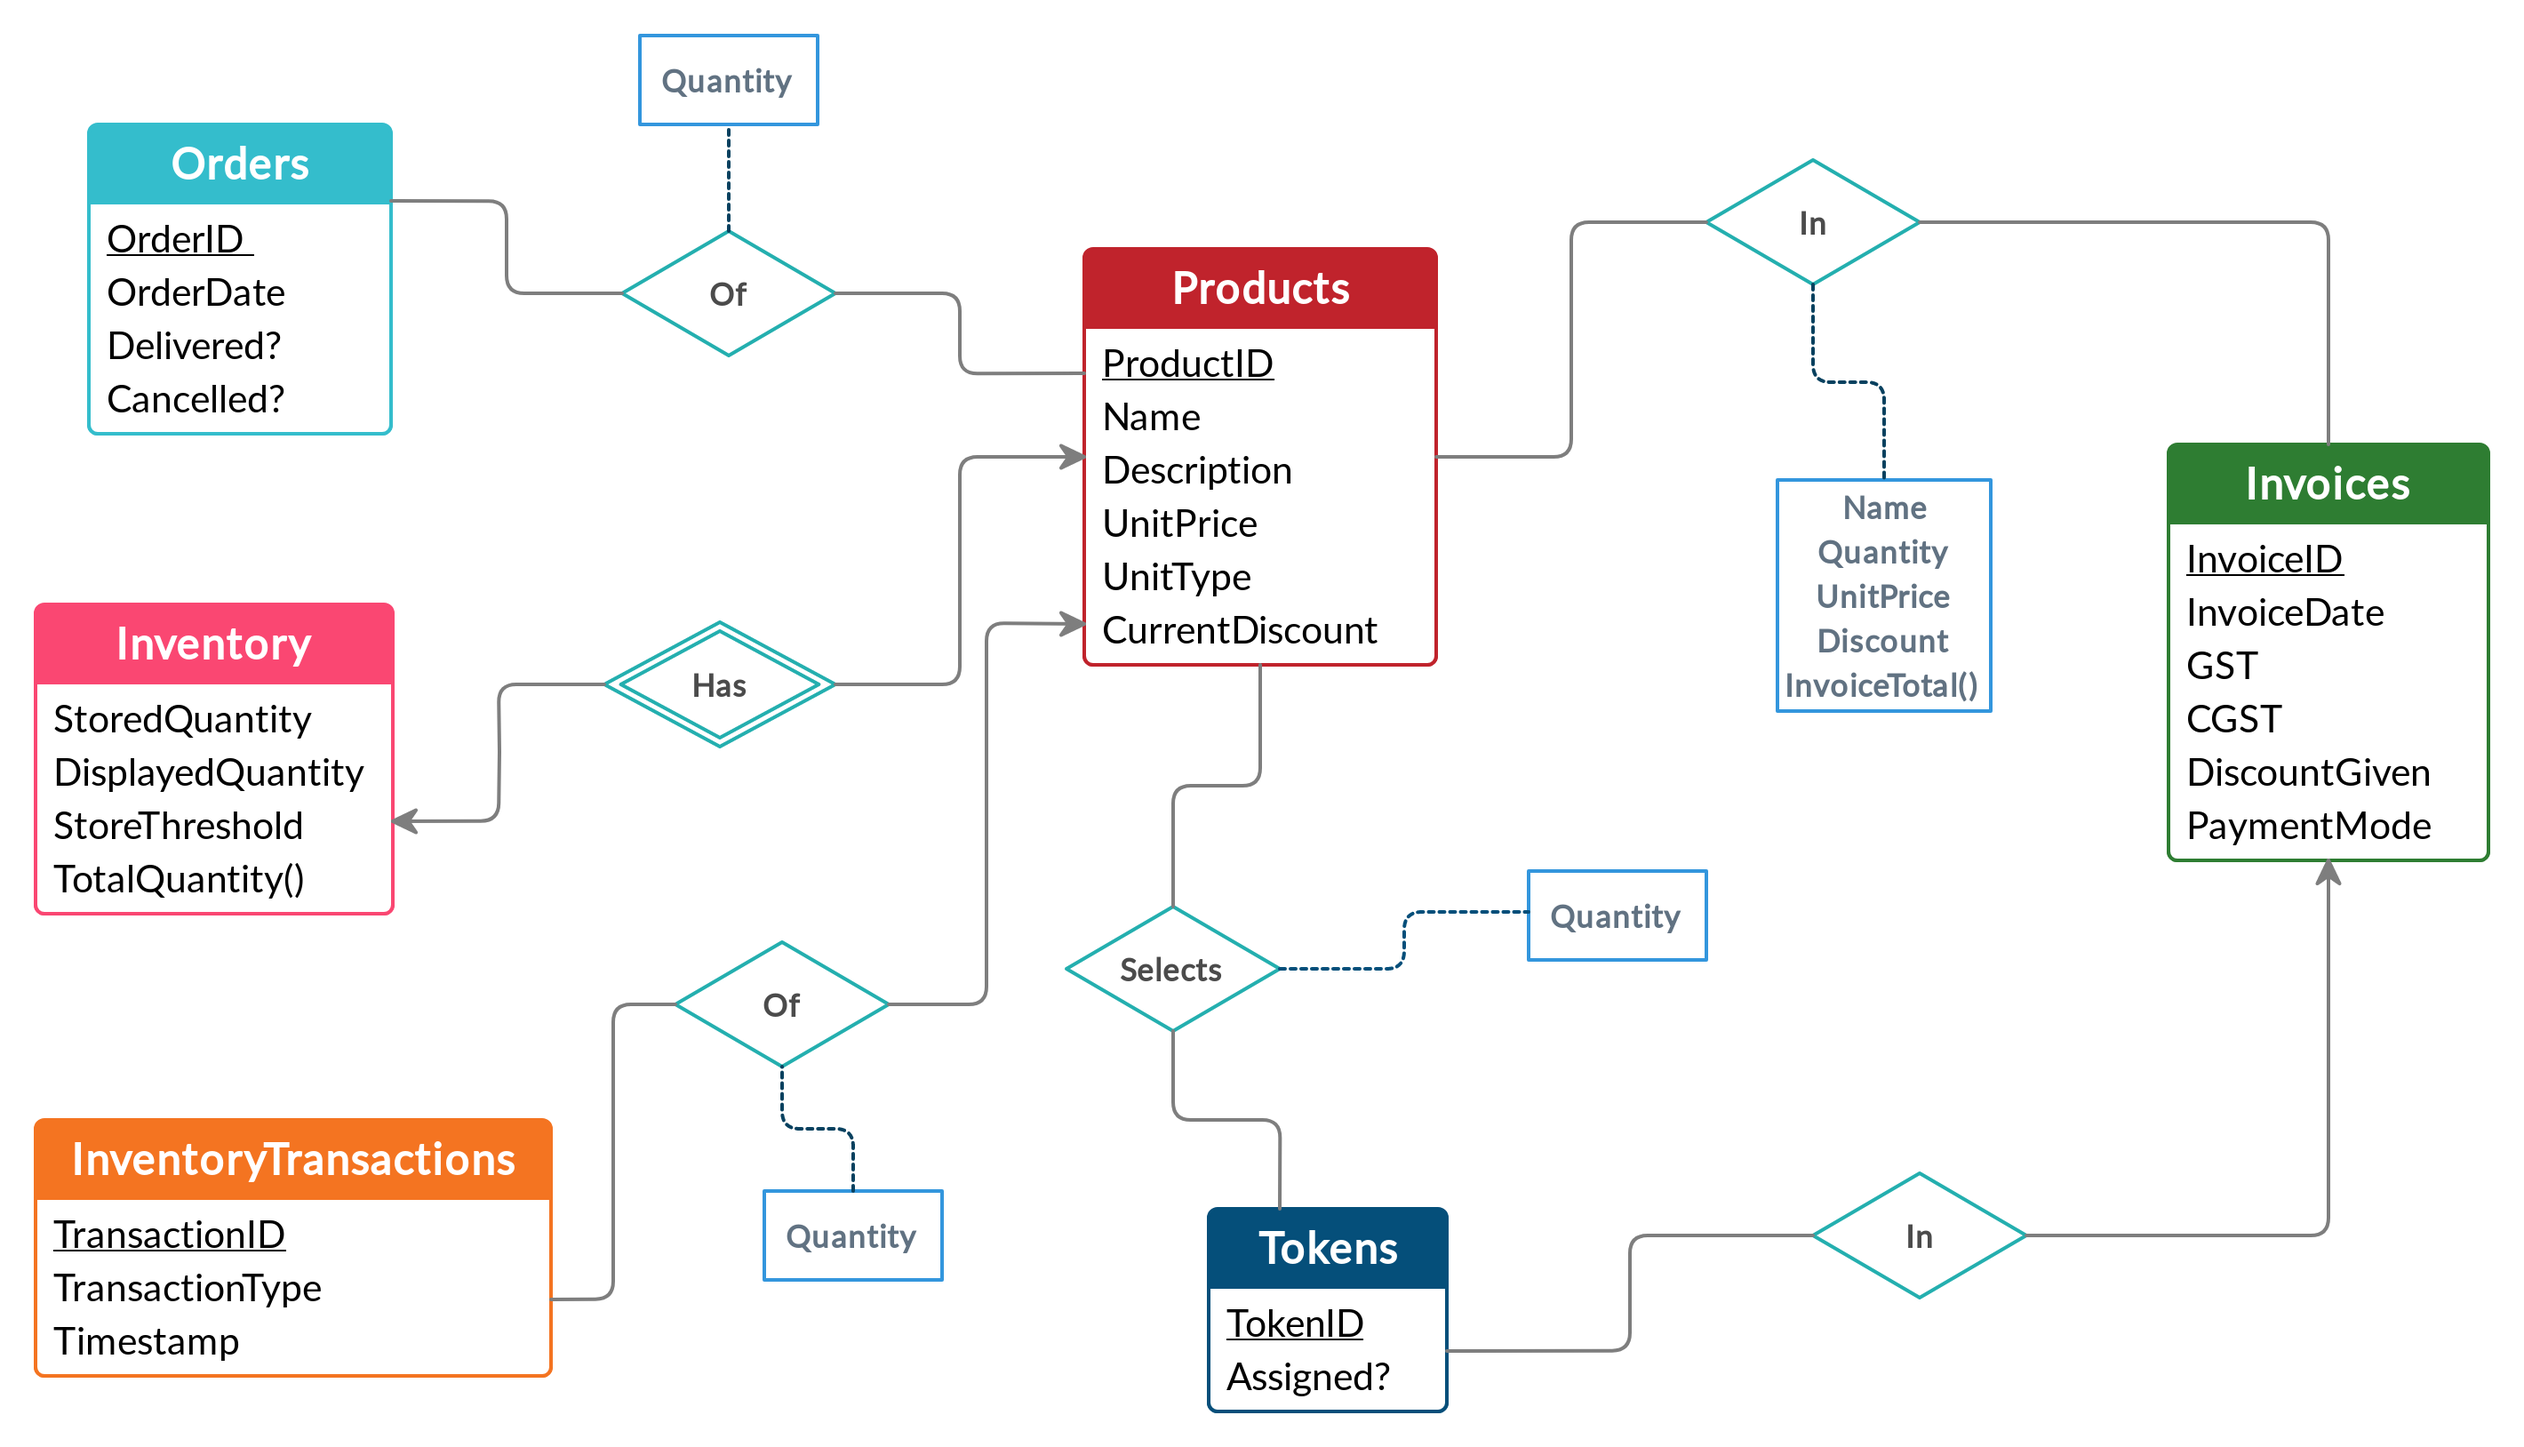
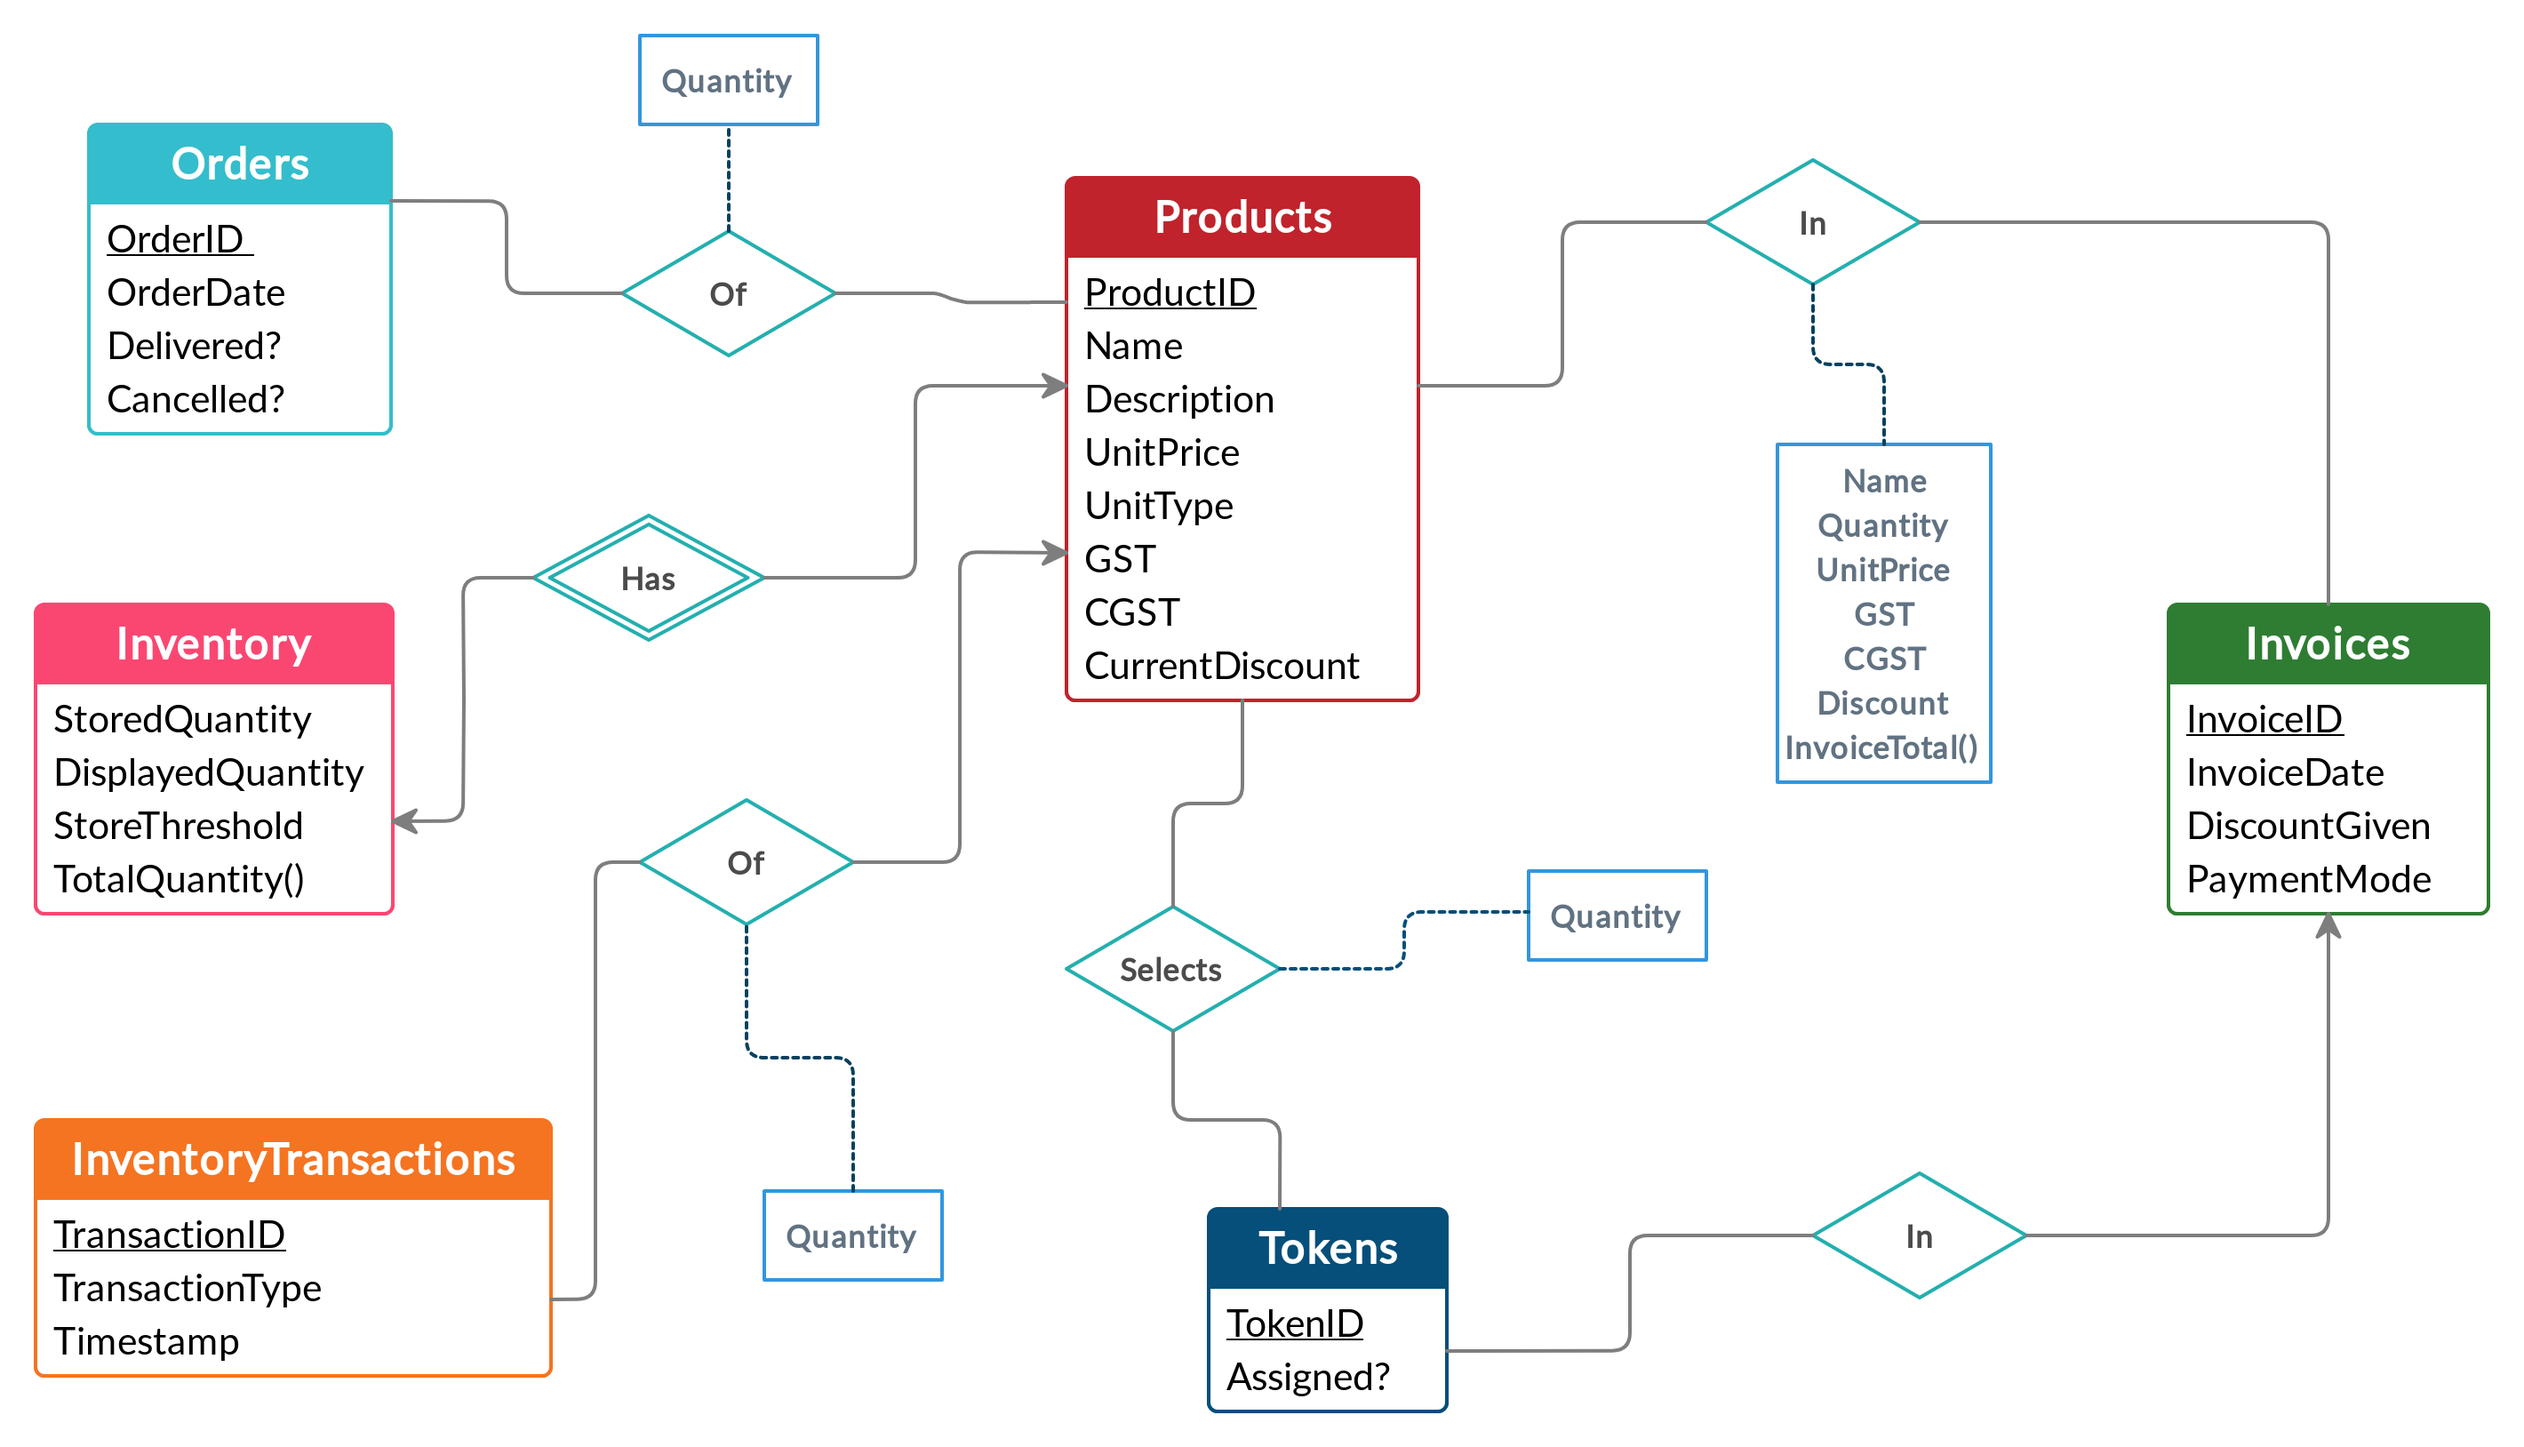
Updated Products to have gst and cgst

diff --git a/CmsLib/ProductManager.py b/CmsLib/ProductManager.py
@@ -16,9 +16,10 @@ class ProductManager:
     # @retval 1 Product id already used
     # @retval 2 Unit price not positive
     # @retval 3 Unit type not valid
-    # @retval 4 Discount negative
+    # @retval 4 GST and CGST not valid
+    # @retval 5 Current discount not valid
     @staticmethod
-    def __add_product(pysql, product_id, name, description, unit_price, unit_type, current_discount):
+    def __add_product(pysql, product_id, name, description, unit_price, unit_type, gst, cgst, current_discount):
         # Get the product existence status
         product_exists = ProductManager._ProductManager__product_exists(pysql, product_id)
 
@@ -34,19 +35,25 @@ class ProductManager:
         if unit_type not in ["kg", "pcs", "ltrs"]:
             return 3
 
+        # Check if gst and cgst are correct
+        if 0 < gst or gst > 100:
+            return 4
+        if 0 < cgst or cgst > 100:
+            return 4
+
         # Check if discount not negative
         if current_discount and current_discount < 0:
-            return 4
+            return 5
 
         # Check if discount is specified
         if current_discount:
             sql_stmt = "INSERT INTO `Products` \
-                        VALUES (%s, %s, %s, %s, %s, %s)"
-            pysql.run(sql_stmt, (product_id, name, description, unit_price, unit_type, current_discount))
+                        VALUES (%s, %s, %s, %s, %s, %s, %s, %s)"
+            pysql.run(sql_stmt, (product_id, name, description, unit_price, unit_type, gst, cgst, current_discount))
         else:
-            sql_stmt = "INSERT INTO `Products` (`ProductID`, `Name`, `Description`, `UnitPrice`, `UnitType`) \
-                        VALUES (%s, %s, %s, %s, %s)"
-            pysql.run(sql_stmt, (product_id, name, description, unit_price, unit_type))
+            sql_stmt = "INSERT INTO `Products` (`ProductID`, `Name`, `Description`, `UnitPrice`, `UnitType`, `GST`, `CGST`) \
+                        VALUES (%s, %s, %s, %s, %s, %s, %s)"
+            pysql.run(sql_stmt, (product_id, name, description, unit_price, unit_type, gst, cgst))
 
             return 0
 
@@ -113,7 +120,7 @@ class ProductManager:
     # @retval 0 Updated successfully
     # @retval 1 Product not found
     @staticmethod
-    def __update_description(pysql, product_id, description):
+    def __update_product_description(pysql, product_id, description):
         # Get the product existence status
         product_exists = ProductManager._ProductManager__product_exists(pysql, product_id)
 
@@ -126,6 +133,31 @@ class ProductManager:
                     SET `Description` = %s \
                     WHERE `ProductID` = %s"
         pysql.run(sql_stmt, (description, product_id))
+
+        return 0
+
+    # @brief This method updates the gst and cgst
+    # @param pysql PySql object
+    # @param product_id ProductID
+    # @param gst GST percentage
+    # @param cgst CGST percentage
+    # @retval 0 Updated successfully
+    # @retval 1 Product not found
+    @staticmethod
+    def __update_product_gst_cgst(pysql, product_id, gst, cgst):
+        # Get the product existence status
+        product_exists = ProductManager._ProductManager__product_exists(pysql, product_id)
+
+        # Check if product exists
+        if not product_exists:
+            return 1
+
+        # Update the gst and cgst fields
+        sql_stmt = "UPDATE `Products` \
+                    SET `GST` = %s,
+                        `CGST` = %s \
+                    WHERE `ProductID` = %s"
+        pysql.run(sql_stmt, (gst, cgst, product_id))
 
         return 0
 
@@ -207,10 +239,18 @@ class ProductManager:
 
     # @ref __update_description
     @staticmethod
-    def update_description(pysql, product_id, description):
-        return pysql.run_transaction(ProductManager.__update_description,
+    def update_product_description(pysql, product_id, description):
+        return pysql.run_transaction(ProductManager.__update_product_description,
                                      product_id,
                                      description)
+
+    # @ref __update_product_gst_cgst
+    @staticmethod
+    def update_product_gst_cgst(pysql, product_id, gst, cgst):
+        return pysql.run_transaction(ProductManager.__update_product_gst_cgst,
+                                     product_id,
+                                     gst,
+                                     cgst)
 
     # @ref __is_product_id_used
     @staticmethod

diff --git a/CmsLib/InvoiceManager.py b/CmsLib/InvoiceManager.py
@@ -71,20 +71,20 @@ class InvoiceManager:
         pysql.run_many(sql_stmt, token_ids)
 
         # Add the invoice product details
-        sql_stmt = "SELECT `ProductID`, `Name`, `SumQuantity`, `UnitPrice`, `CurrentDiscount` \
-                    FROM Products JOIN (SELECT `ProductID`, SUM(`Quantity`) AS `SumQuantity` \
-                                        FROM `TokensSelectProducts` \
-                                        WHERE `TokenID` IN (SELECT `TokenID` \
-                                                            FROM `Tokens` \
-                                                            WHERE `InvoiceID` = %s) \
-                                        GROUP BY `ProductID`) AS `ProductsQuantities` \
-                                  USING (`ProductID`)"
+        sql_stmt = "SELECT `ProductID`, `Name`, `SumQuantity`, `UnitPrice`, `GST`, `CGST`, `CurrentDiscount` \
+                    FROM `Products` JOIN (SELECT `ProductID`, SUM(`Quantity`) AS `SumQuantity` \
+                                          FROM `TokensSelectProducts` \
+                                          WHERE `TokenID` IN (SELECT `TokenID` \
+                                                              FROM `Tokens` \
+                                                              WHERE `InvoiceID` = %s) \
+                                          GROUP BY `ProductID`) AS `ProductsQuantities` \
+                                    USING (`ProductID`)"
         pysql.run(sql_stmt, (invoice_id, ))
         invoice_details = pysql.result
 
         # Add these product details with the corresponding invoice
         sql_stmt = "INSERT INTO `ProductsInInvoices` \
-                    VALUES ('{}', %s, %s, %s, %s, %s)".format(invoice_id)
+                    VALUES ('{}', %s, %s, %s, %s, %s, %s, %s)".format(invoice_id)
         pysql.run_many(sql_stmt, invoice_details)
 
         # Make the assigned status false and make the invoice id null
@@ -104,31 +104,6 @@ class InvoiceManager:
 
         # Return the invoice id
         return invoice_id
-
-    # @brief This method updates the default values of GST and CGST
-    # @param pysql PySql object
-    # @param gst New value of GST in percentage (float)
-    # @param cgst New value of CGST in percentage (float)
-    # @retval 0 Updated successfully
-    # @retval 1 Input incorrect
-    @staticmethod
-    def __update_gst_cgst(pysql, gst, cgst):
-        # Check the inputs
-        if not 0 <= gst <= 100:
-            return 1
-        if not 0 <= cgst <= 100:
-            return 1
-
-        # Update GST
-        sql_stmt = "ALTER TABLE `Invoices` \
-                    ALTER `GST` SET DEFAULT %s"
-        pysql.run(sql_stmt, (gst, ))
-        # Update CGST
-        sql_stmt = "ALTER TABLE `Invoices` \
-                    ALTER `CGST` SET DEFAULT %s"
-        pysql.run(sql_stmt, (cgst, ))
-
-        return 0
 
     # @brief This method updates the discount for a particular invoice
     # @param pysql PySql object
@@ -208,13 +183,6 @@ class InvoiceManager:
         return pysql.run_transaction(InvoiceManager.__generate_invoice,
                                      token_ids,
                                      payment_mode)
-
-    # @ref __update_gst_cgst
-    @staticmethod
-    def update_gst_cgst(pysql, gst, cgst):
-        return pysql.run_transaction(InvoiceManager.__update_gst_cgst,
-                                     gst,
-                                     cgst)
 
     # @ref __give_additional_discount
     @staticmethod
